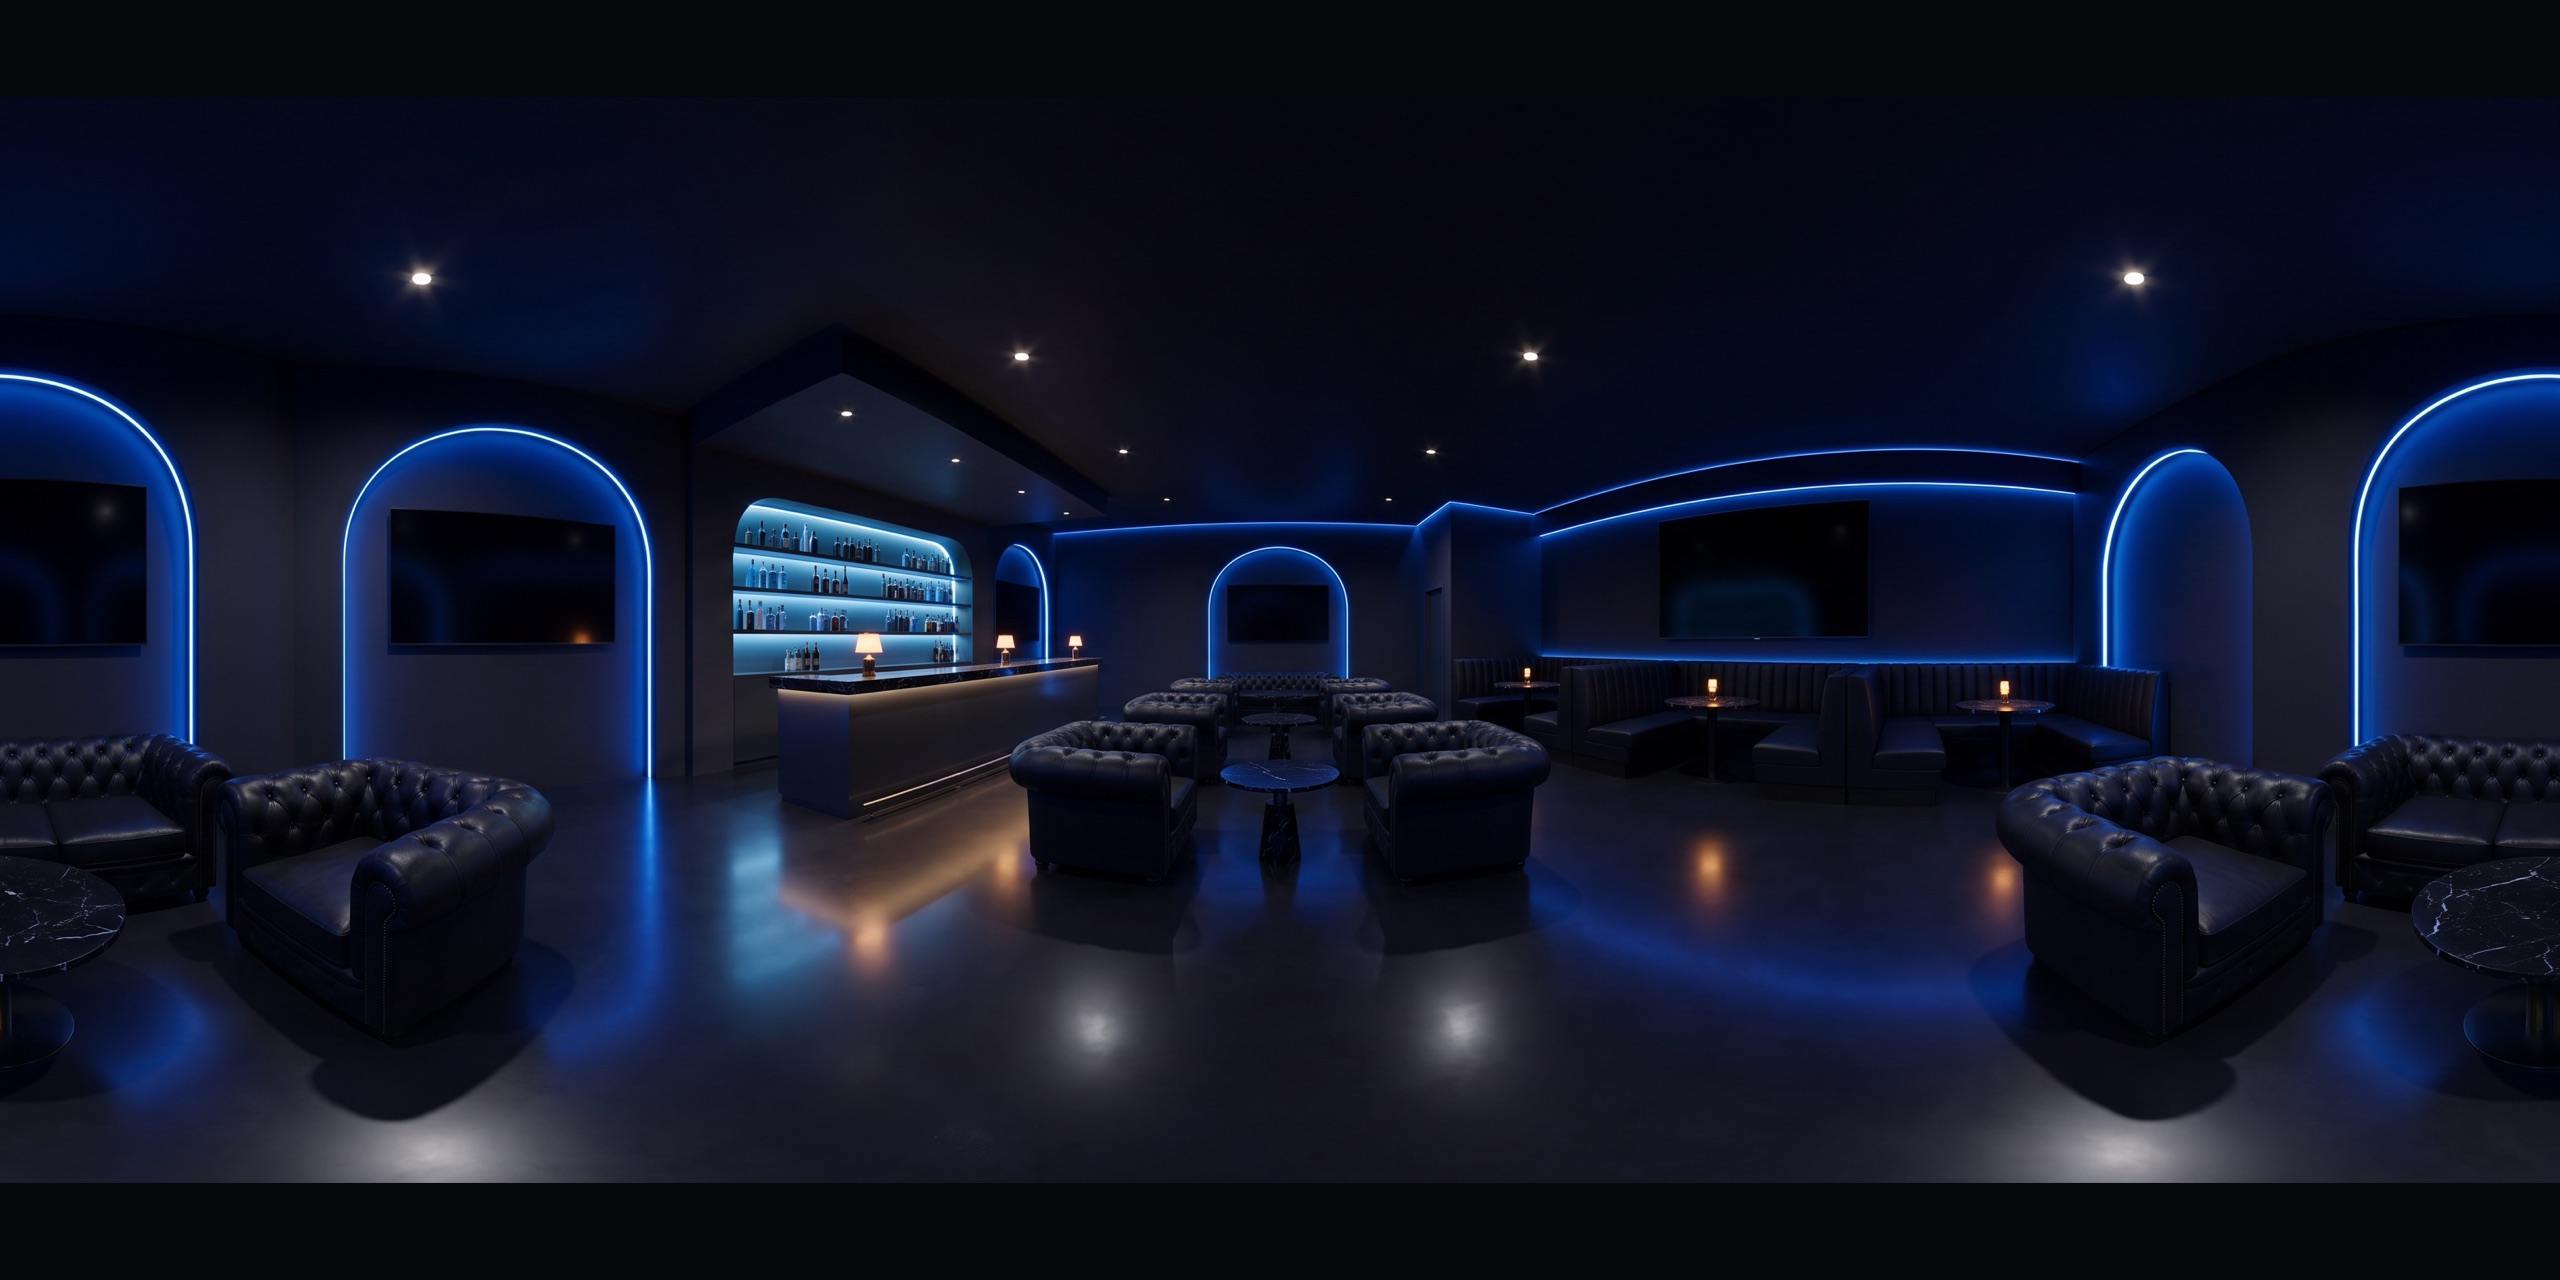
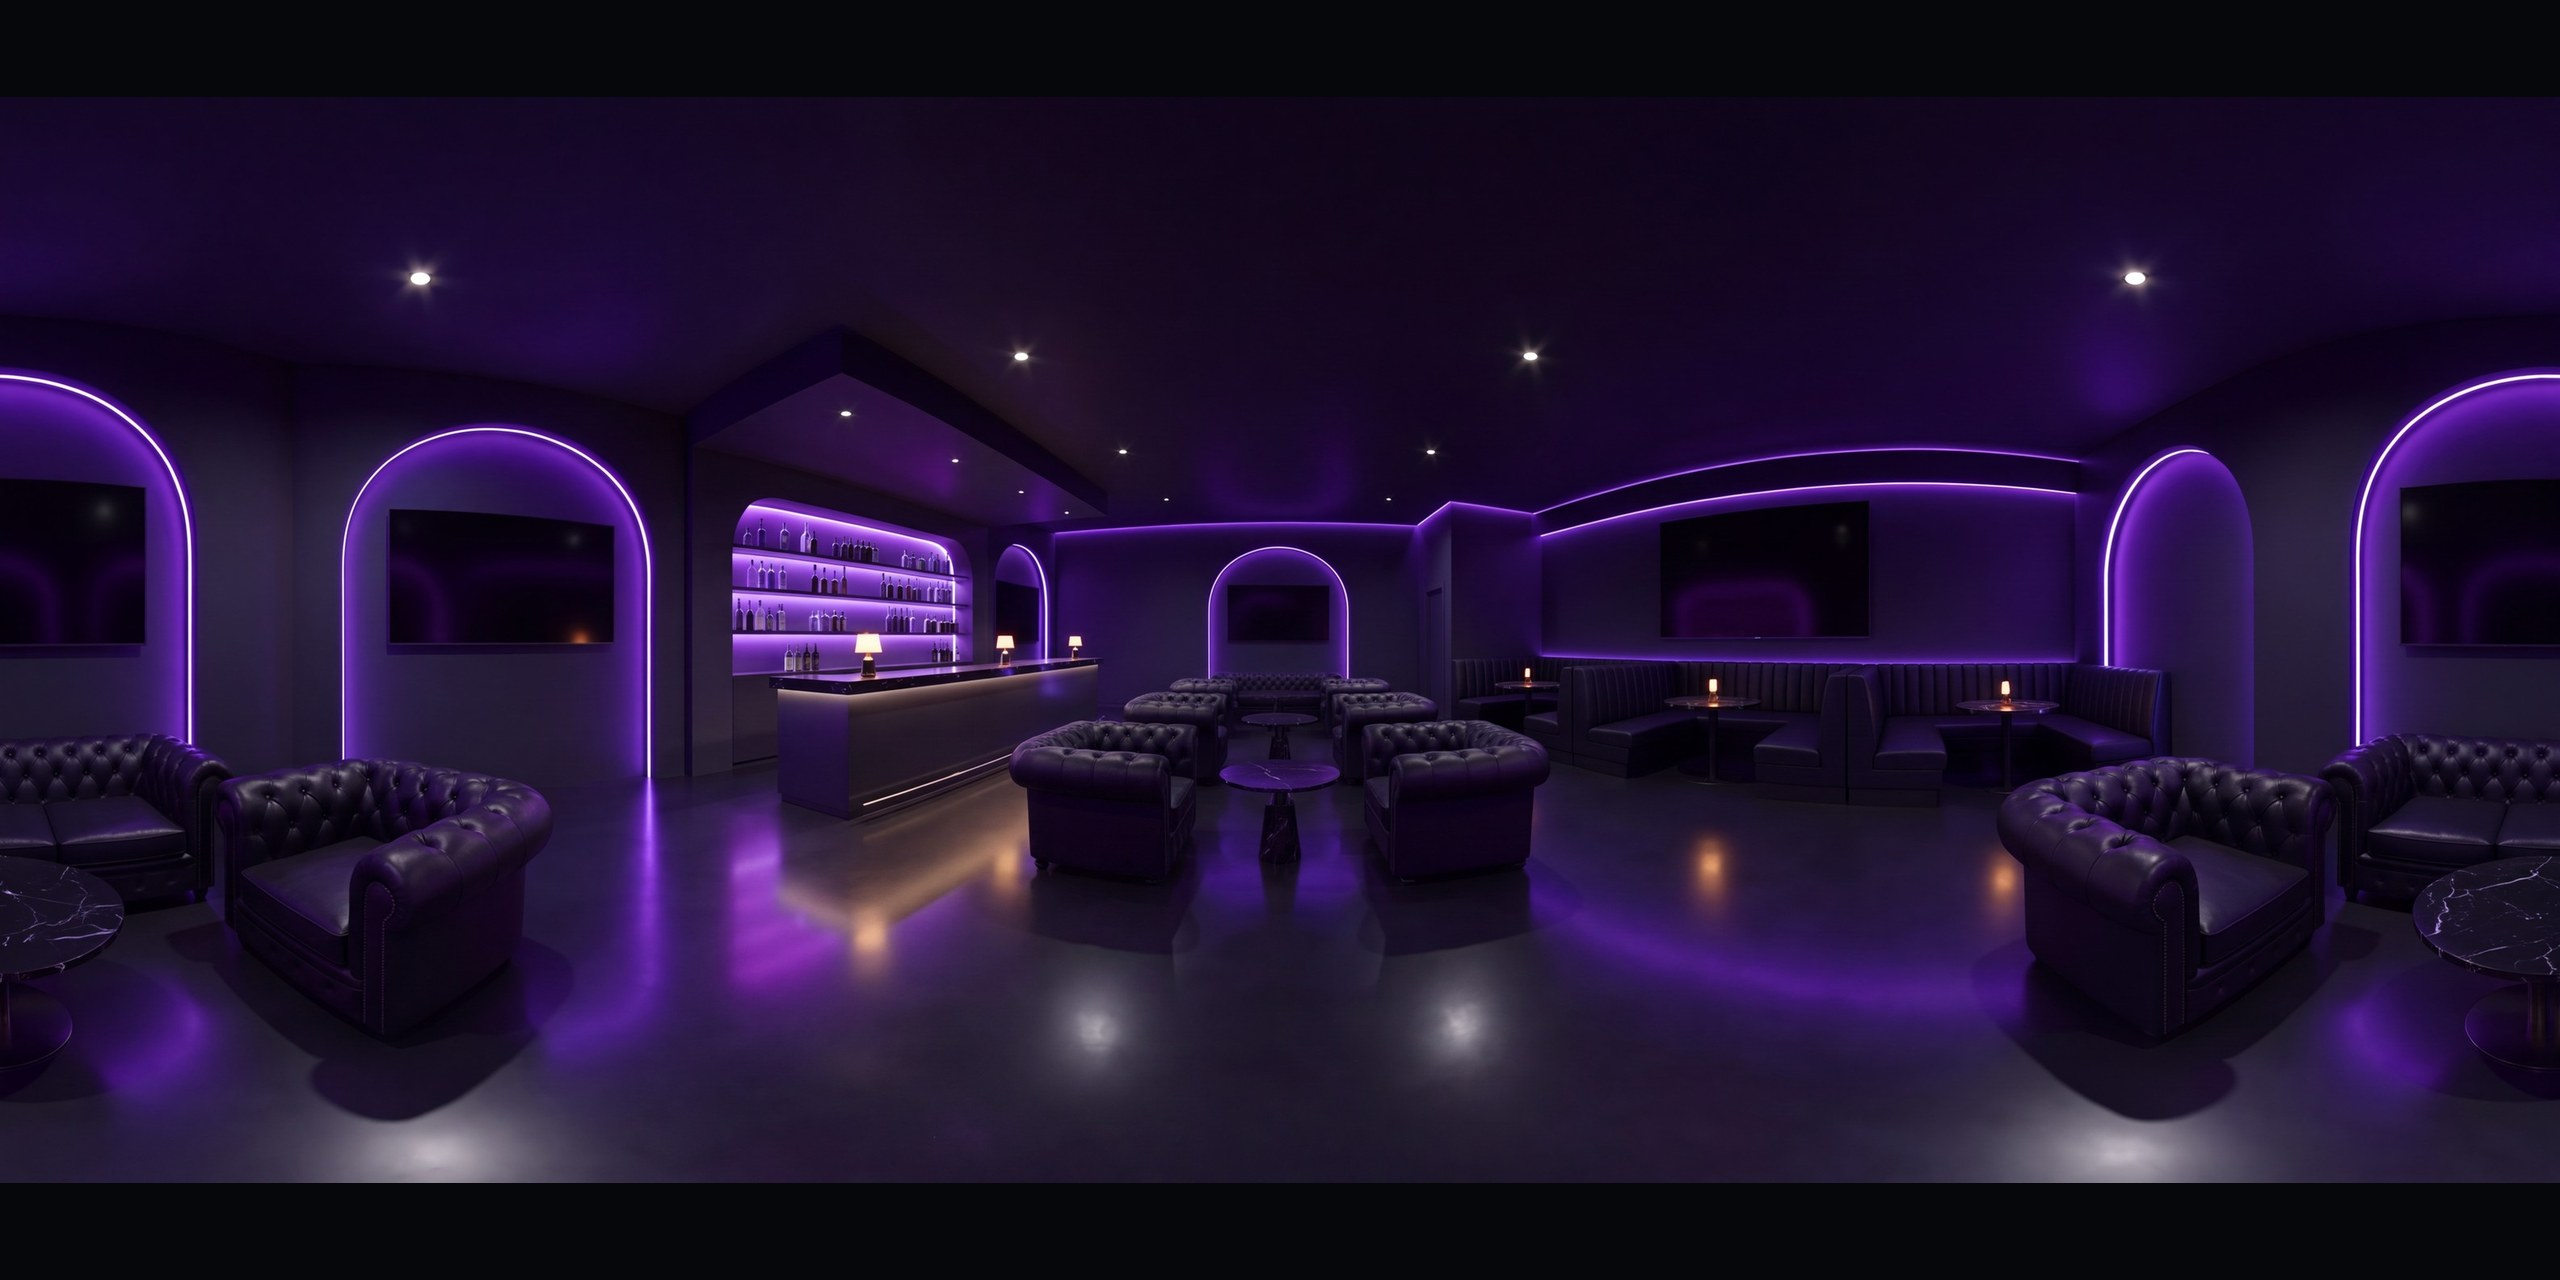
Ambiente da sinuca no tom da marca e desktop sem o glow atrás do jogo
O bar 360° da sinuca agora usa a versão da marca (tabela White Label).
No desktop saiu a elipse colorida desfocada atrás da coluna do jogo.

diff --git a/index.html b/index.html
@@ -13,11 +13,11 @@
 <link rel="preconnect" href="https://fonts.googleapis.com">
 <link rel="preconnect" href="https://fonts.gstatic.com" crossorigin>
 <link rel="stylesheet" href="https://fonts.googleapis.com/css2?family=Inter:wght@400;500;600;700&family=Sora:wght@600;700;800&display=swap">
-<link rel="stylesheet" href="css/tokens.css?v=kingpanda-10272215">
-<link rel="stylesheet" href="css/ui.css?v=kingpanda-10272215">
-<link rel="stylesheet" href="css/screens.css?v=kingpanda-10272215">
-<link rel="stylesheet" href="css/game.css?v=kingpanda-10272215">
-<link rel="stylesheet" href="css/desk.css?v=kingpanda-10272215">
+<link rel="stylesheet" href="css/tokens.css?v=kingpanda-10280009">
+<link rel="stylesheet" href="css/ui.css?v=kingpanda-10280009">
+<link rel="stylesheet" href="css/screens.css?v=kingpanda-10280009">
+<link rel="stylesheet" href="css/game.css?v=kingpanda-10280009">
+<link rel="stylesheet" href="css/desk.css?v=kingpanda-10280009">
 </head>
 <body>
 <svg width="0" height="0" style="position:absolute" aria-hidden="true">
@@ -73,15 +73,15 @@
   </div>
 </div></div>
 
-<script src="js/core.js?v=kingpanda-10272215"></script>
-<script src="js/ui.js?v=kingpanda-10272215"></script>
-<script src="js/screens.js?v=kingpanda-10272215"></script>
-<script src="js/loja.js?v=kingpanda-10272215"></script>
-<script src="js/social.js?v=kingpanda-10272215"></script>
-<script src="js/battles.js?v=kingpanda-10272215"></script>
-<script src="js/games.js?v=kingpanda-10272215"></script>
-<script src="js/sinuca.js?v=kingpanda-10272215"></script>
-<script src="js/desk.js?v=kingpanda-10272215"></script>
-<script src="js/boot.js?v=kingpanda-10272215"></script>
+<script src="js/core.js?v=kingpanda-10280009"></script>
+<script src="js/ui.js?v=kingpanda-10280009"></script>
+<script src="js/screens.js?v=kingpanda-10280009"></script>
+<script src="js/loja.js?v=kingpanda-10280009"></script>
+<script src="js/social.js?v=kingpanda-10280009"></script>
+<script src="js/battles.js?v=kingpanda-10280009"></script>
+<script src="js/games.js?v=kingpanda-10280009"></script>
+<script src="js/sinuca.js?v=kingpanda-10280009"></script>
+<script src="js/desk.js?v=kingpanda-10280009"></script>
+<script src="js/boot.js?v=kingpanda-10280009"></script>
 </body>
 </html>

diff --git a/js/sinuca.js b/js/sinuca.js
@@ -10,7 +10,7 @@ function startSinuca(tableId) {
   const q = new URLSearchParams({nick: ST.nick, crew: ST.crew, g: ST.g, opp: OPP.n, mesa: tableId, q: '0'});
   const w = document.createElement('section');
   w.className = 'scr sinuca-scr'; w.id = 'sinucaWrap';
-  w.innerHTML = `<iframe id="sinucaFrame" title="Sinuca · Bola 8" allow="autoplay; fullscreen" src="sinuca/index.html?v=kingpanda-10272215#embed=${ST.stake}&${q}"></iframe>`;
+  w.innerHTML = `<iframe id="sinucaFrame" title="Sinuca · Bola 8" allow="autoplay; fullscreen" src="sinuca/index.html?v=kingpanda-10280009#embed=${ST.stake}&${q}"></iframe>`;
   closeSheet(); closeNotifs(); pauseViewVideos();
   $('#view').hidden = true; $('#scr-game').hidden = true;
   $('#app').appendChild(w);

diff --git a/css/desk.css b/css/desk.css
@@ -8,7 +8,6 @@ body.dk.dk-ob{--dkl:0px;--dkr:0px}
 
 /* ---------- coluna 9:16 ---------- */
 body.dk .stage-wrap{inset:var(--dkh) var(--dkr) 0 var(--dkl)}
-body.dk .stage-wrap::before{content:"";position:absolute;left:50%;top:50%;width:min(880px,90%);height:80%;transform:translate(-50%,-50%);border-radius:50%;background:var(--dk-gc);filter:blur(120px);opacity:.14;pointer-events:none;transition:background .4s}
 body.dk .phone{width:396px;height:704px;border-radius:24px;box-shadow:0 0 0 1px var(--border-default),0 0 0 2px #ffffff0a,0 32px 80px var(--shadow-strong)}
 body.dk .status{display:none}
 /* o header e a navbar da tela saem da coluna: viram o header e o menu do desktop */
